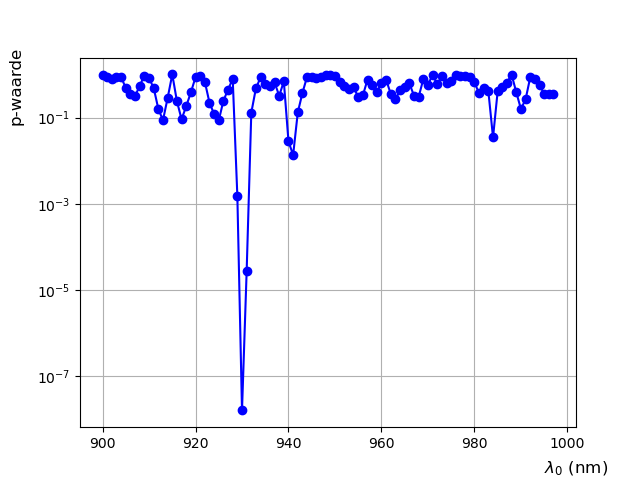
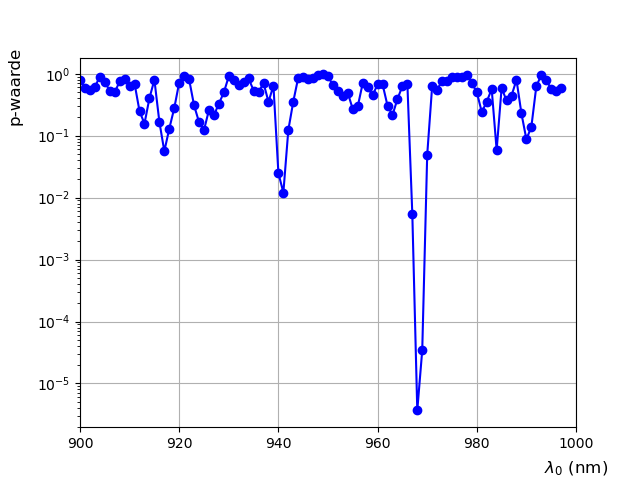
Wald test uitgebreid

diff --git a/40 Module 4/02 Hypothese toetsen 2/Theorie.md b/40 Module 4/02 Hypothese toetsen 2/Theorie.md
@@ -12,7 +12,7 @@ We hebben in module 3 een eerste stap gemaakt met hypothese toetsen. We hebben g
 In dit hoofdstuk leggen we nu een bijzondere vorm van hypothese toetsen uit waarbij we gebruik maken van de kleinste kwadraten methode en de daarbij berekende $$\chi^2$$. 
 
 
-## Wald test
+## De Wald test
 De Wald test is een bijzondere test die kan worden gebruikt om met behulp van de kleinste kwadraten methode een hypothese te toetsen. 
 
 Het idee is om aan een set meetwaardes twee functies te fitten. De eerste functie, $$f_0$$, beschrijft de dataset onder de hypothese $$H_0$$, de tweede functie, $$f_\alpha$$, beschrijft de dataset onder de alternatieve hypothese $$H_\alpha$$. Het verschil in de geminimaliseerde $$\chi^2$$ voor beide functies wordt gedefinieerd als 
@@ -32,7 +32,7 @@ Alleen als aan de bovengenoemde voorwaarde wordt voldaan dan wordt de $$\Delta \
 > Waarbij $$\lambda$$ de golflengte is.  <br>
 > De emissielijn van $$X$$, verwachten we rond 930 nm en de resolutie van de spectroscoop is 1 nm. De intensiteit van de emissielijn wordt dan beschreven door: <br>
 ><br> 
-> $$ I_\alpha(\lambda;J,\lambda_0=930nm,\sigma=1nm) = J \cdot \frac{1}{\sigma \sqrt{2 \pi}} e^{-\frac{1}{2}\left(\frac{\lambda - \lambda_0}{\sigma}\right)^2}$$<br>
+> $$ I_\alpha(\lambda;J,\lambda_0, \sigma) = J \cdot \frac{1}{\sigma \sqrt{2 \pi}} e^{-\frac{1}{2}\left(\frac{\lambda - \lambda_0}{\sigma}\right)^2}$$<br>
 > <br>
 > We zien dat in principe er geen vrije parameters zijn in deze fit, behalve een schaalfactor $$J$$ die de hoeveelheid intensiteit van het signaal schaalt.  
 > <br><br>
@@ -62,15 +62,23 @@ In het voorbeeld hierboven is er een duidelijk stelling over de golflengte van d
 We moeten ook bij deze toets van te voren bepalen bij welke p-waarde we de nulhypothese verwerpen.
 
 
-> **Voorbeeld p-waarde scan** Hieronder zie je de spectraalfit waarbij we het
-> spectrum hebben gefit met een centrale waarde van de spectraallijn op
-> 932 nm, net rechts van het piekje op 930 nm. Zoals je in de figuur<!--FIG in figuur \ref{fig:Spectrum932}--> ziet is de waarde voor $$J$$ die de intensiteit van een eventuele emissielijn op 932 nm beschrijft, erg klein: De gefitte functie voor $$H_\alpha$$ wijkt nauwelijks af van de functie die de $$H_0$$ hypothese beschrijft. De berekende p-waarde zal voor deze golflengte dan ook niet heel klein zijn.  
-> ![Het waargenomen spectrum met de gefitte lijn voor $$\lambda = 932$$ nm.](Spectrum932.png){:width="60%"}   
-> Als we alle p-waardes van de scan nu grafisch weergeven dan krijgen we het hier <!--FIG in figuur \ref{fig:Emissiescan} --> getoonde resultaat.  
+> **Voorbeeld p-waarde scan** 
+> We gaan terug naar ons experiment met de spectraalfit. In dit experiment is er een deeltje Y dat wel wellicht kunnen waarnemen. Echter, in dit geval weten is er geen voorspelde waarde van de golflengte $$\lambda_0$$, ook kennen we de verwachte intensiteit niet. We kunnen de Wald test hierdoor niet zomaar uitvoeren. Immers moeten we precies één vrije parameter extra fitten in de $$H_\alpha$$ hypothese ten opzichte van de $$H_0$$ hypothese. 
+> 
+> De oplossing vinden we door 1 variabele te fixeren, deze houden we constant. We kunnen dan de p-waarde scannen als functie van de gefixeerde parameter. In het voorbeeld hier scannen we over de golflengte $$\lambda_0$$. 
+> 
+> We laten de fit nu voor vier waardes van $$\lambda_0$$ <!--FIG in figuur \ref{fig:SpectrumFits}--> zien. Voor elke waarde van $$\lambda_0$$ fitten we nu de twee functies alsof we weten dat de spectraallijn van element Y zich precies daar bevindt. 
+>   
+> ![Het waargenomen spectrum met de gefitte lijn voor $$\lambda = 932$$ nm.](SpectrumFits.png){:width="60%"}  
+> 
+> We zien voor de fit met waarde $$\lambda_0 = 930~\text{nm}$$ dat de $$\Delta \chi^2$$ gelijk is aan 0. Maar als we goed kijken in het plaatje zien we ook geen enkel piekje bij $$\lambda=930~\text{nm}$$. Bij de waardes van $$\lambda = 940$$ en $$980~\text{nm}$$ zien we wel een klein piekje. Maar vooral bij de waarde van $$\lambda = 968~\text{nm}$$ is een echte piek te vinden. 
+>  
+> Als we alle p-waardes van de scan (maar dan over alle waardes van $$\lambda_0$$) nu grafisch weergeven dan krijgen we het volgende <!--FIG, in figuur \ref{fig:Emissiescan} -->  resultaat.  
 > ![De p-waarde scan van de emissiedata.](Emissiescan.png){:width="60%"}  
-> Je ziet nu dat er op een aantal plekken in het spectrum een kleine afwijking van de $$H_0$$ hypothese te zien is. Deze komen allemaal overeen met golflengtes waar op het oog een piekje zichtbaar lijkt. Op slechts 1 locatie is er een heel duidelijke afwijking zichtbaar. Precies bij 930 nm. 
+> Je ziet nu dat er op een aantal plekken in het spectrum een kleine afwijking van de $$H_0$$ hypothese te zien is. Deze komen allemaal overeen met golflengtes waar op het oog een piekje zichtbaar lijkt. Op slechts 1 locatie is er een heel duidelijke afwijking zichtbaar. Precies bij 968 nm. De $$\Delta \chi^2$$ is op dat punt 21.4  en dit kunnen we omrekenen naar een p-waarde van $$3.7 \cdot 10^{-6}.$$
+> 
 
-Eigenlijk hadden  we van tevoren ook bij deze een significantie moeten afspreken waarbij we de aanwezigheid van het chemische element kunnen aantonen. Zodra de gemeten p-waarde onder deze afgesproken significantie zakt in de p-waarde scan kunnen we claimen het element te hebben aangetoond. Als we hem weer bij een waarde van $$1 \cdot 10^{-6}$$ hadden afgesproken hadden we ook in de p-waarde scan het element $$X$$ kunnen claimen. 
+Eigenlijk hadden  we van tevoren ook bij dit experiment van te voren een significantieniveau moeten afspreken waarbij we de aanwezigheid van het chemische element kunnen aantonen. Zodra de gemeten p-waarde onder deze afgesproken significantie zakt in de p-waarde scan kunnen we claimen het element te hebben aangetoond. Als we hem weer bij een waarde van $$1 \cdot 10^{-6}$$ hadden afgesproken hadden we ook in de p-waarde scan het element $$Y$$ kunnen claimen. 
 
 
 De Wald test is een krachtige methode om hypotheses te toetsen. We gaan hem in opdracht M4.1 toepassen. 
